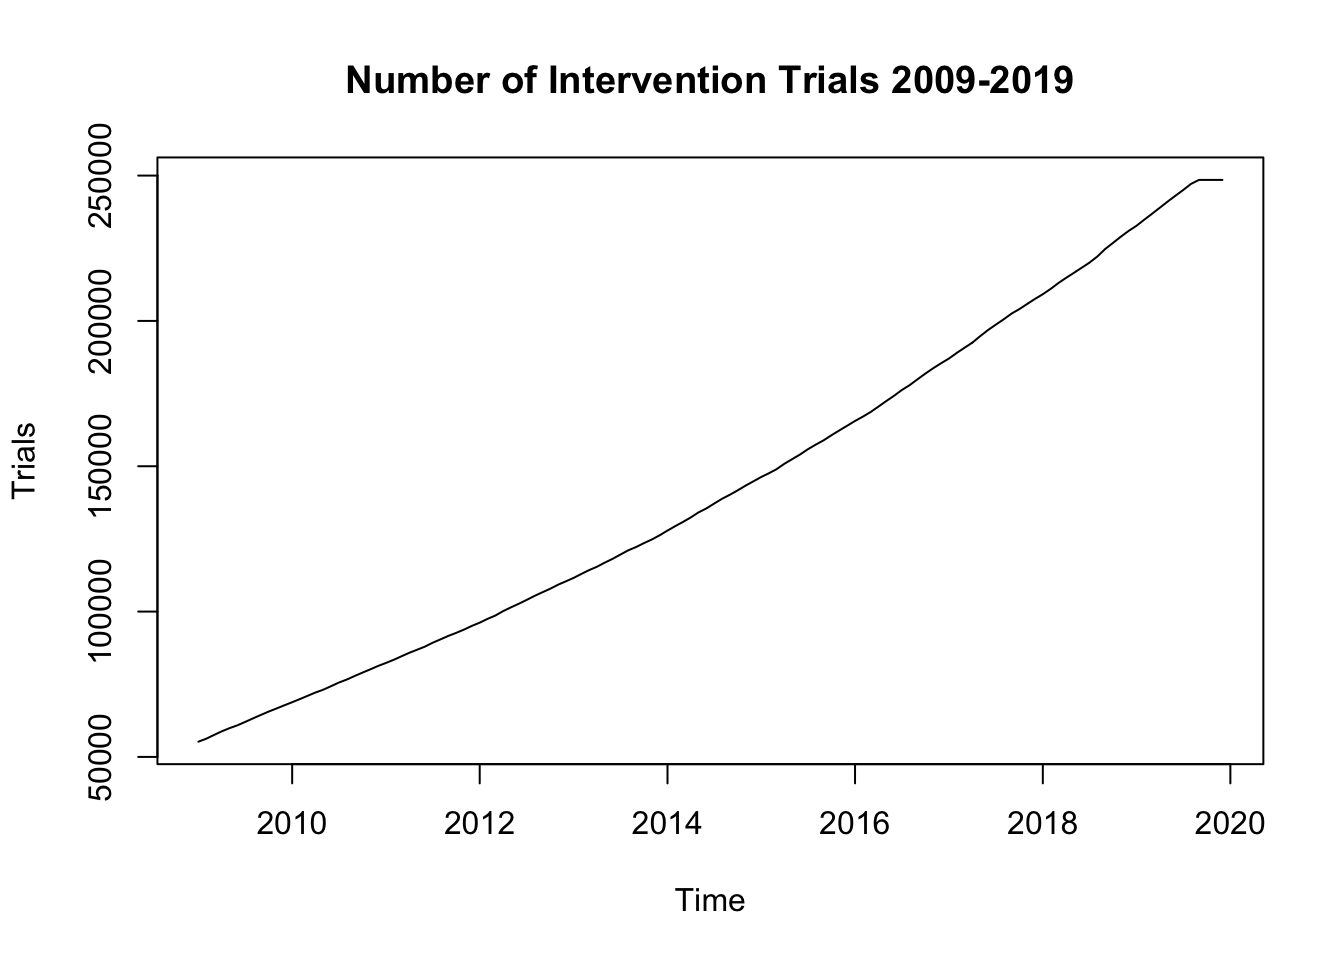
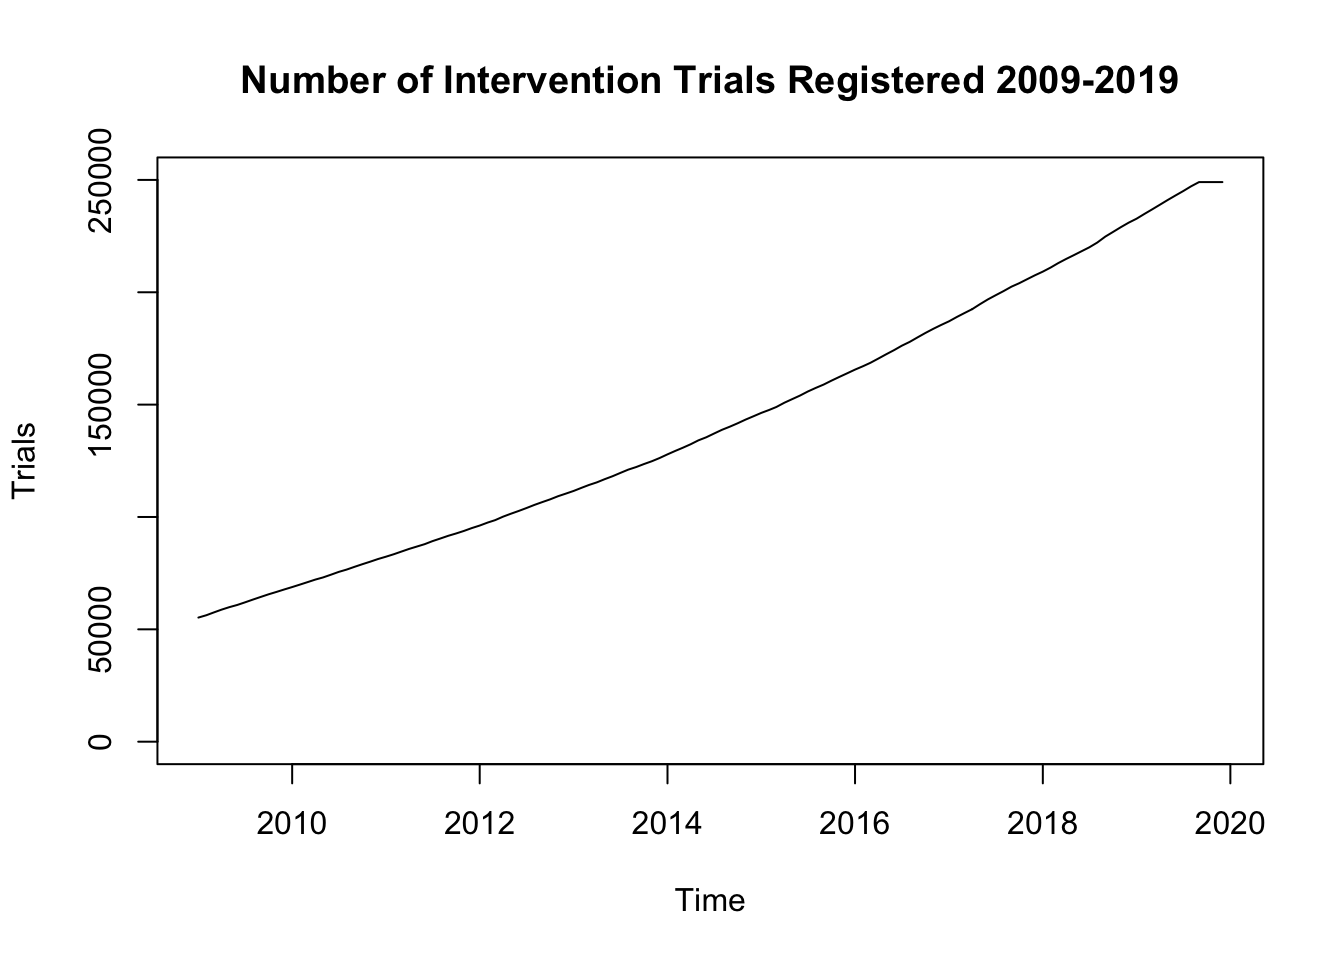
graphs to 0

diff --git a/docs/_site/clinical_trials.html b/docs/_site/clinical_trials.html
@@ -317,31 +317,31 @@ $(document).ready(function () {
 <h2>Total Number of Trials</h2>
 <p>The number of records in clinicaltrials.gov is:</p>
 <pre class="r"><code>clinicaltrials_count(query = &quot;ALL&quot;)</code></pre>
-<pre><code>## [1] 314509</code></pre>
+<pre><code>## [1] 315240</code></pre>
 </div>
 <div id="total-number-of-actively-recruiting-trials" class="section level2">
 <h2>Total Number of Actively Recruiting Trials</h2>
 <p>The number of trials that are currently recruiting is:</p>
 <pre class="r"><code>clinicaltrials_count(query = c(&quot;recr=Recruiting&quot;, &quot;ALL&quot;))</code></pre>
-<pre><code>## [1] 51436</code></pre>
+<pre><code>## [1] 51578</code></pre>
 </div>
 <div id="total-number-of-completed-trials" class="section level2">
 <h2>Total Number of Completed Trials</h2>
 <p>The number of trials that are marked as completed:</p>
 <pre class="r"><code>clinicaltrials_count(query = c(&quot;recr=Completed&quot;, &quot;ALL&quot;))</code></pre>
-<pre><code>## [1] 168406</code></pre>
+<pre><code>## [1] 168835</code></pre>
 </div>
 <div id="new-trials-in-2018" class="section level2">
 <h2>New Trials in 2018</h2>
 <p>The number of new trials posted in 2018 is:</p>
 <pre class="r"><code>clinicaltrials_count(query = c(&quot;rcv_s=01/01/2018&quot;, &quot;rcv_e=12/31/2018&quot;))</code></pre>
-<pre><code>## [1] 30982</code></pre>
+<pre><code>## [1] 30981</code></pre>
 </div>
 <div id="new-trials-in-2019" class="section level2">
 <h2>New Trials in 2019</h2>
 <p>The number of new trials posted in 2019 is:</p>
 <pre class="r"><code>clinicaltrials_count(query = c(&quot;rcv_s=01/01/2019&quot;, &quot;rcv_e=12/31/2019&quot;))</code></pre>
-<pre><code>## [1] 21156</code></pre>
+<pre><code>## [1] 21889</code></pre>
 </div>
 <div id="trials-registered-in-the-past-10-years" class="section level2">
 <h2>Trials Registered in the Past 10 years</h2>
@@ -364,14 +364,11 @@ for(j in 1:length(years)){
     x &lt;- clinicaltrials_count(query = c(&quot;type=Intr&quot;, 
                                         #&quot;term=workplace+program OR workplace+wellness OR workplace+health+program&quot;, 
                                         paste(&quot;rcv_e=&quot;,months[i],&quot;/01/&quot;,years[j],sep=&quot;&quot;)))
-    
     numOfTrials &lt;- c(numOfTrials,x)
     totalTrials &lt;- c(totalTrials,sum(numOfTrials))
     startDate &lt;- c(startDate,paste(months[i],&quot;/01/&quot;,years[j],sep=&quot;&quot;))
   }
-  
 }
-
 
 ## Put fields together
 ctOverTime &lt;- data.frame(startDate,numOfTrials)
@@ -384,7 +381,7 @@ ctOverTime$startDate &lt;- ifelse(charLength == TRUE,paste(&quot;0&quot;,ctOverT
                                ctOverTime$startDate)
 #### plot
 ctOverTime$startDate &lt;- as.Date(ctOverTime$startDate,&quot;%m/%d/%Y&quot;)
-with(ctOverTime, plot(numOfTrials ~ startDate, type = &quot;l&quot;,main=&quot;Number of Intervention Trials 2009-2019&quot;, xlab = &quot;Time&quot;,ylab=&quot;Trials&quot;))</code></pre>
+with(ctOverTime, plot(numOfTrials ~ startDate, type = &quot;l&quot;,main=&quot;Number of Intervention Trials Registered 2009-2019&quot;, ylim = c(0,250000), xlab = &quot;Time&quot;,ylab=&quot;Trials&quot;))</code></pre>
 <p><img src="clinical_trials_files/figure-html/over%20time-1.png" width="672" /></p>
 <p>Please contact <a href="mailto:alexandra_bannachbrown@bond.edu.au" target="_blank"> Alexandra Bannach-Brown</a> if you have any questions.</p>
 </div>

diff --git a/docs/_site/pubmed_sys_rev.html b/docs/_site/pubmed_sys_rev.html
@@ -320,7 +320,7 @@ $(document).ready(function () {
 sys_rev_human_query &lt;- &quot;(systematic review[PTYP] AND human[MESH])&quot;
 sys_rev_human_search &lt;- entrez_search(db = &quot;pubmed&quot;, sys_rev_human_query, use_history = TRUE )
 sys_rev_human_search$count</code></pre>
-<pre><code>## [1] 109544</code></pre>
+<pre><code>## [1] 109856</code></pre>
 <p>We can visualise the number of systematic reviews published in the past 10 years.</p>
 <pre class="r"><code>sys_rev_year &lt;- function(year, term){
   query &lt;- paste(term, &quot;AND(&quot;, year, &quot;[PDAT])&quot;)
@@ -330,7 +330,10 @@ sys_rev_human_search$count</code></pre>
 year &lt;- 2008:2018
 papers &lt;- sapply(year, sys_rev_year, term=&quot;(systematic review[PTYP] AND human[MESH])&quot;, USE.NAMES = FALSE)
 ## produce the plots
-plot(year, papers, type=&#39;b&#39;, main=&quot;Increase in Human Systematic Reviews - Count per year 2008:2018&quot;, xlab = &quot;Year&quot;,ylab=&quot;Articles&quot;)</code></pre>
+plot(year, papers, type=&#39;b&#39;, main=&quot;Increase in Human Systematic Reviews - Count per year 2008:2018&quot;, 
+      ylim =  c(0,17000),
+      xlab = &quot;Year&quot;,
+      ylab=&quot;Articles&quot;)</code></pre>
 <p><img src="pubmed_sys_rev_files/figure-html/sys%20rev%20human%20graph-1.png" width="672" /></p>
 </div>
 <div id="systematic-reviews-of-animal-studies" class="section level2">
@@ -340,7 +343,7 @@ plot(year, papers, type=&#39;b&#39;, main=&quot;Increase in Human Systematic Rev
 
 sys_rev_animal_search &lt;- entrez_search(db = &quot;pubmed&quot;, alt_animal_query, use_history = TRUE )
 sys_rev_animal_search$count</code></pre>
-<pre><code>## [1] 771</code></pre>
+<pre><code>## [1] 776</code></pre>
 <p>We can visualise the number of animal systematic reviews published in the past 10 years.</p>
 <pre class="r"><code>sys_rev_year &lt;- function(year, term){
   query &lt;- paste(term, &quot;AND(&quot;, year, &quot;[PDAT])&quot;)
@@ -350,7 +353,10 @@ sys_rev_animal_search$count</code></pre>
 year &lt;- 2008:2018
 papers_animal &lt;- sapply(year, sys_rev_year, term=&quot;(systematic review[PTYP] AND animal[MESH] NOT human[MESH])&quot;, USE.NAMES = FALSE)
 ## produce the plots
-plot(year, papers_animal, type=&#39;b&#39;, main=&quot;Increase in Animal Systematic Reviews - Count per year 2008:2018&quot;, xlab = &quot;Year&quot;,ylab=&quot;Articles&quot;)</code></pre>
+plot(year, papers_animal, type=&#39;b&#39;, main=&quot;Increase in Animal Systematic Reviews - Count per year 2008:2018&quot;, 
+     ylim =  c(0,150),
+     xlab = &quot;Year&quot;,
+     ylab=&quot;Articles&quot;)</code></pre>
 <p><img src="pubmed_sys_rev_files/figure-html/sys%20rev%20animal%20graph-1.png" width="672" /></p>
 <p>Please contact <a href="mailto:alexandra_bannachbrown@bond.edu.au" target="_blank"> Alexandra Bannach-Brown</a> if you have any questions.</p>
 </div>

diff --git a/docs/_site/PROSPERO.html b/docs/_site/PROSPERO.html
@@ -327,7 +327,10 @@ plot(prospero_all$Year, prospero_all$Number_regos, type=&#39;b&#39;, main = &quo
 prospero_clinical &lt;- read.csv(&quot;~/Documents/auto_retrieval/prospero_numbers_clinical.csv&quot;, sep = &quot;,&quot;, header = TRUE)
 # plot
 plot(prospero_clinical$Year, prospero_clinical$Number_regos, type=&#39;b&#39;, main = &quot;Clinical &amp; General Systematic Review Registrations on PROSPERO&quot;, xlab = &quot;Year&quot;, ylab=&quot;Registrations&quot;)</code></pre>
-<p><img src="PROSPERO_files/figure-html/unnamed-chunk-2-1.png" width="672" /> ## Animal Systematic Review Registrations</p>
+<p><img src="PROSPERO_files/figure-html/unnamed-chunk-2-1.png" width="672" /></p>
+</div>
+<div id="animal-systematic-review-registrations" class="section level2">
+<h2>Animal Systematic Review Registrations</h2>
 <pre class="r"><code># load csv
 prospero_animal &lt;- read.csv(&quot;~/Documents/auto_retrieval/prospero_numbers_animal.csv&quot;, sep = &quot;,&quot;, header = TRUE)
 # plot
